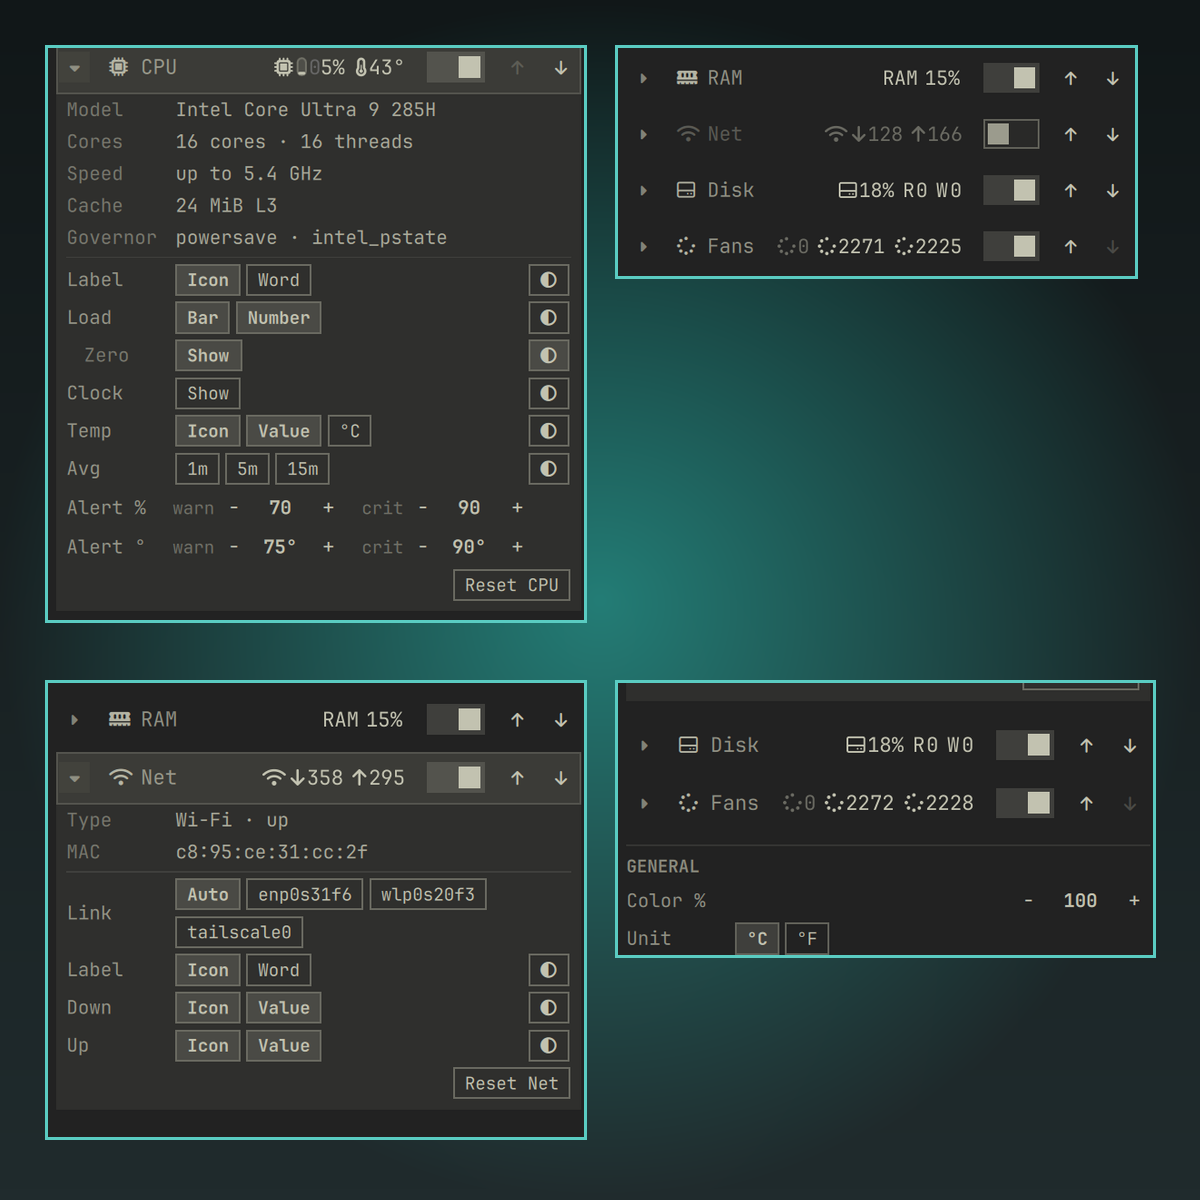
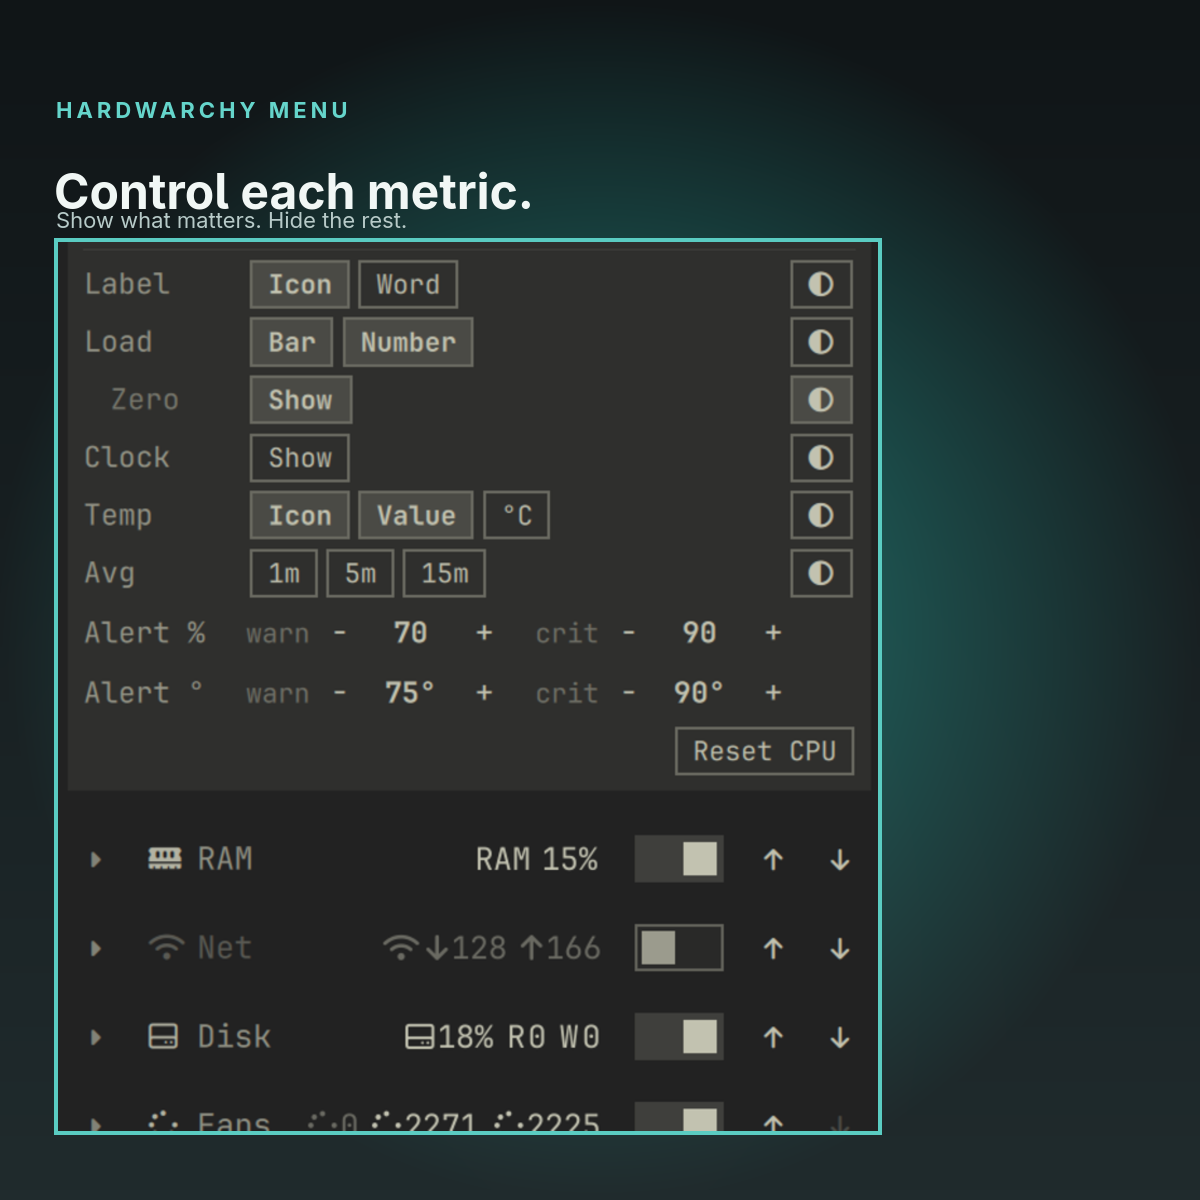
release: update Hardwarchy 2.3.1

diff --git a/README.md b/README.md
@@ -31,7 +31,7 @@ the menu opens, at most once every six hours.
 omarchy plugin add https://github.com/tymurbogach/hardwarchy.git --enable
 ```
 
-The widget starts in the right bar section. Move it when necessary:
+The widget starts in the left bar section. Move it when necessary:
 
 ```bash
 omarchy bar move io.github.tymurbogach.hardwarchy --section center
@@ -61,7 +61,7 @@ GPU support covers NVIDIA, AMD, and Intel. Select the source in the menu when
 the system has more than one GPU. Select the network interface and disk mount
 there too. Network and Disk start off.
 
-![Four real menu cards for CPU, RAM, Net, and Disk](docs/images/menu-overview.png)
+![The current compact Hardwarchy menu](docs/images/menu-overview.png)
 
 ## Configure
 

diff --git a/CHANGELOG.md b/CHANGELOG.md
@@ -1,5 +1,11 @@
 # Changelog
 
+## 2.3.1
+
+- Replace the marketplace images with the current compact menu.
+- Remove the old menu screenshots that showed retired hardware fact rows.
+- Place a new installation in the left bar section by default.
+
 ## 2.3.0
 
 - Refresh the marketplace preview with the Hardwarchy visual identity.
